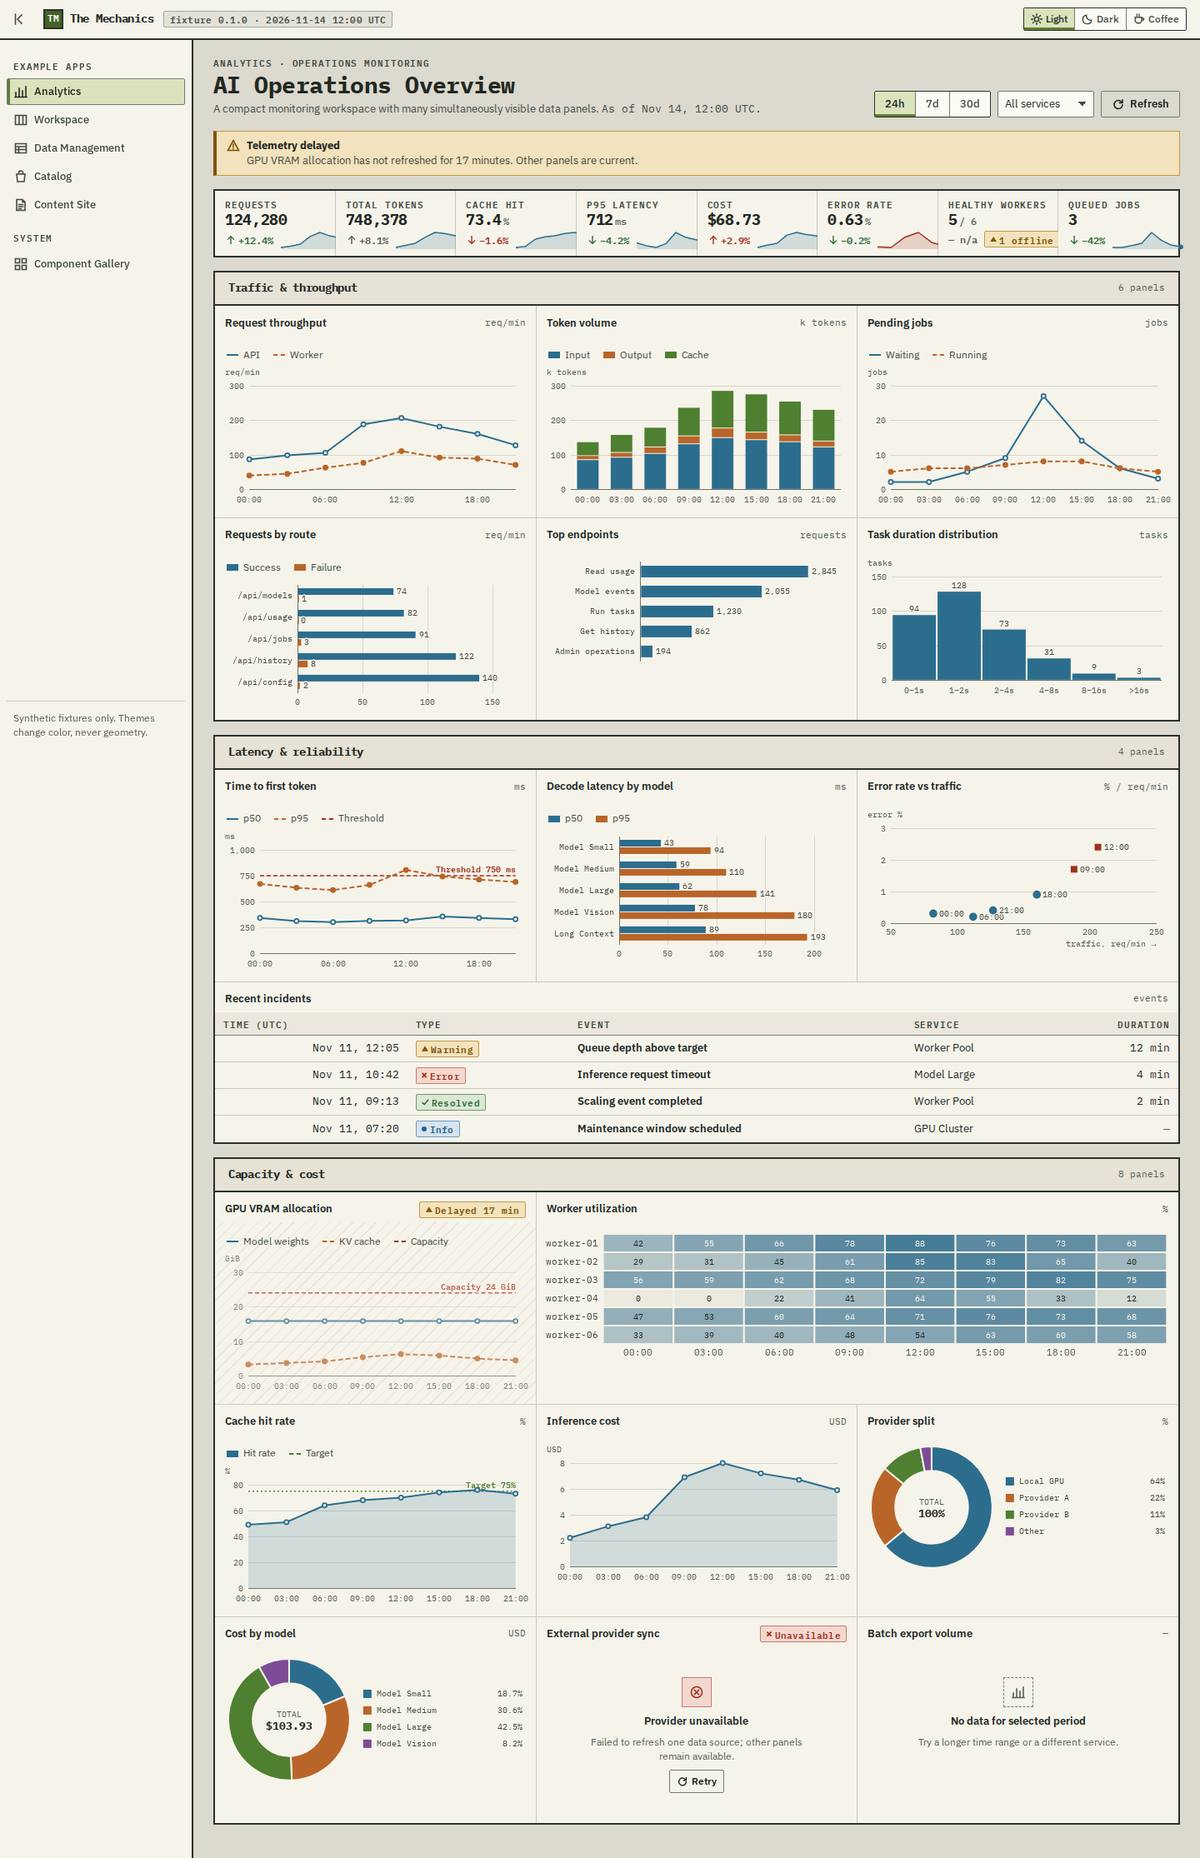
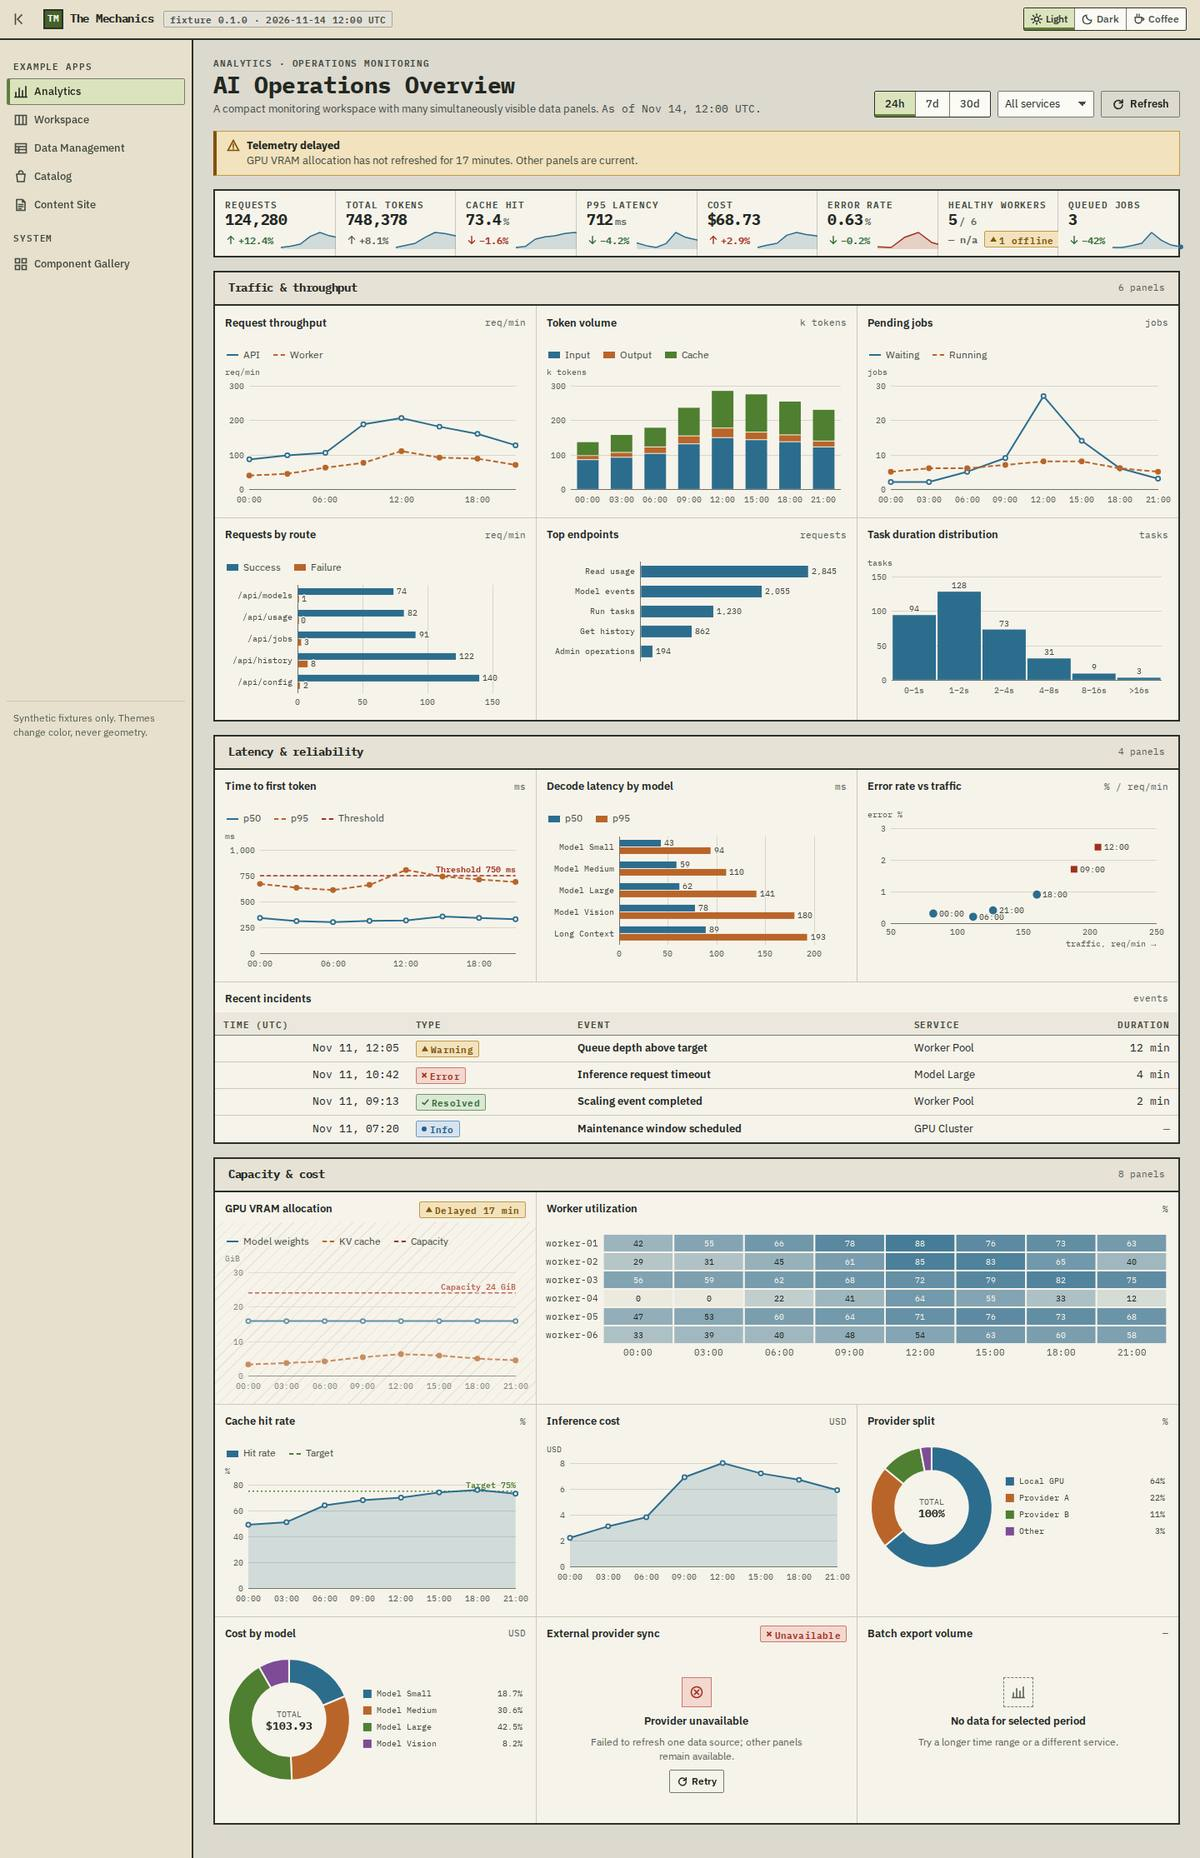
fix: give the Light theme app shell its own sand tone
Topbar and sidebar used --tm-surface, the same cream as the panels, so
the shell read as colorless white framing a gray canvas. New public
token --tm-chrome colors the shell; Light uses warm sand #e6e0cc, Dark
and Coffee keep their previous values. Contrast check adds text and
boundary pairs on chrome (all pass).

Claude-Session: https://claude.ai/code/session_01WpekTqbxR8EZvqYNeeGVyi

Changed region(s): [[0.0, 0.0, 1.0, 1.0]]

diff --git a/src/the-mechanics/themes.css b/src/the-mechanics/themes.css
@@ -6,6 +6,7 @@
  * color/surface/shadow roles; they never change geometry (see tokens.css).
  *
  * Surface ladder (Level 1 → 3):
+ *   chrome   application shell (topbar, sidebar)
  *   canvas   page background behind regions
  *   surface  Level 1 region and Level 2 panel body
  *   head-1   Level 1 region header band (strongest tint)
@@ -20,6 +21,7 @@
 
     /* Light / Paper-Stone — stony canvas, cream paper, green-black ink */
     --tm-canvas: #dcd9cf;
+    --tm-chrome: #e6e0cc;       /* app shell (topbar, sidebar): warm sand, distinct from canvas and paper */
     --tm-surface: #f6f3eb;
     --tm-surface-alt: #efebe1;
     --tm-head-1: #e6e2d5;
@@ -102,6 +104,7 @@
 
     /* Dark / Graphite — lifted graphite, never near-black */
     --tm-canvas: #26292c;
+    --tm-chrome: #33373b;
     --tm-surface: #33373b;
     --tm-surface-alt: #383c41;
     --tm-head-1: #3d4247;
@@ -184,6 +187,7 @@
 
     /* Coffee / Espresso-Mocha — warm mid-dark, cream ink, muted copper */
     --tm-canvas: #33261e;
+    --tm-chrome: #433228;
     --tm-surface: #433228;
     --tm-surface-alt: #48372c;
     --tm-head-1: #503c2f;

diff --git a/src/the-mechanics/components.css b/src/the-mechanics/components.css
@@ -121,7 +121,7 @@
     gap: var(--tm-space-3);
     min-width: 0;
     padding: 0 var(--tm-space-4) 0 var(--tm-space-2);
-    background: var(--tm-surface);
+    background: var(--tm-chrome);
     border-bottom: var(--tm-bw-1) solid var(--tm-line-1);
   }
   .tm-brand {
@@ -151,7 +151,7 @@
   .tm-sidebar {
     grid-area: side;
     min-width: 0;
-    background: var(--tm-surface);
+    background: var(--tm-chrome);
     border-right: var(--tm-bw-1) solid var(--tm-line-1);
   }
   .tm-sidebar__inner {

diff --git a/docs/verification/contrast.md b/docs/verification/contrast.md
@@ -8,6 +8,10 @@ Generated by `pnpm check:contrast` from `src/the-mechanics/themes.css`. WCAG 2.x
 |---|---|---:|---:|---|---|
 | `text` #22271f | `surface` #f6f3eb | 13.74 | 4.5 | pass | body text on panel |
 | `text` #22271f | `canvas` #dcd9cf | 10.79 | 4.5 | pass | body text on canvas |
+| `text` #22271f | `chrome` #e6e0cc | 11.54 | 4.5 | pass | text in topbar/sidebar |
+| `text-2` #434a41 | `chrome` #e6e0cc | 6.93 | 4.5 | pass | nav items |
+| `text-3` #575e55 | `chrome` #e6e0cc | 5.07 | 4.5 | pass | sidebar meta text |
+| `line-1` #2b312a | `chrome` #e6e0cc | 10.09 | 3 | pass | shell boundary |
 | `text-2` #434a41 | `surface` #f6f3eb | 8.25 | 4.5 | pass | secondary text on panel |
 | `text-2` #434a41 | `head-1` #e6e2d5 | 7.06 | 4.5 | pass | region header labels |
 | `text-3` #575e55 | `surface` #f6f3eb | 6.04 | 4.5 | pass | muted/meta text on panel |
@@ -63,6 +67,10 @@ Informational:
 |---|---|---:|---:|---|---|
 | `text` #e9ebe6 | `surface` #33373b | 9.99 | 4.5 | pass | body text on panel |
 | `text` #e9ebe6 | `canvas` #26292c | 12.18 | 4.5 | pass | body text on canvas |
+| `text` #e9ebe6 | `chrome` #33373b | 9.99 | 4.5 | pass | text in topbar/sidebar |
+| `text-2` #c9cdc6 | `chrome` #33373b | 7.44 | 4.5 | pass | nav items |
+| `text-3` #aeb3ab | `chrome` #33373b | 5.62 | 4.5 | pass | sidebar meta text |
+| `line-1` #a9aea6 | `chrome` #33373b | 5.31 | 3 | pass | shell boundary |
 | `text-2` #c9cdc6 | `surface` #33373b | 7.44 | 4.5 | pass | secondary text on panel |
 | `text-2` #c9cdc6 | `head-1` #3d4247 | 6.30 | 4.5 | pass | region header labels |
 | `text-3` #aeb3ab | `surface` #33373b | 5.62 | 4.5 | pass | muted/meta text on panel |
@@ -118,6 +126,10 @@ Informational:
 |---|---|---:|---:|---|---|
 | `text` #f3e8d8 | `surface` #433228 | 10.05 | 4.5 | pass | body text on panel |
 | `text` #f3e8d8 | `canvas` #33261e | 12.07 | 4.5 | pass | body text on canvas |
+| `text` #f3e8d8 | `chrome` #433228 | 10.05 | 4.5 | pass | text in topbar/sidebar |
+| `text-2` #dccab2 | `chrome` #433228 | 7.61 | 4.5 | pass | nav items |
+| `text-3` #c4ad91 | `chrome` #433228 | 5.64 | 4.5 | pass | sidebar meta text |
+| `line-1` #c9a985 | `chrome` #433228 | 5.50 | 3 | pass | shell boundary |
 | `text-2` #dccab2 | `surface` #433228 | 7.61 | 4.5 | pass | secondary text on panel |
 | `text-2` #dccab2 | `head-1` #503c2f | 6.47 | 4.5 | pass | region header labels |
 | `text-3` #c4ad91 | `surface` #433228 | 5.64 | 4.5 | pass | muted/meta text on panel |

diff --git a/docs/verification/testing-report.md b/docs/verification/testing-report.md
@@ -35,6 +35,7 @@ Round 3 (owner review):
 18. Product card footer mixed three element types and heights → stock moved into the body as a bare text badge; footer is a fixed-height price | flush-button strip.
 19. Inconsistent hover (buttons filled, chips/pagination/cards changed border; cards are not clickable) → single rule: clickable controls get a fill tint, borders never change on hover, non-clickable containers do not react.
 20. Level-2 borders too faint (2.15:1 Coffee, 2.19:1 Dark, 2.51:1 Light on canvas) → raised to ≥3:1 on surface and canvas in all themes; now enforced by `check:contrast` (41 pairs per theme).
+21. Light theme shell (topbar, sidebar) used the same cream as the panels and read as colorless white → new `--tm-chrome` token; Light uses warm sand `#e6e0cc` (Dark/Coffee unchanged). Contrast check covers text on chrome (45 pairs per theme).
 
 ### Interaction / keyboard checks — `pnpm smoke` (15/15 pass, [`smoke-results.json`](smoke-results.json))
 Desktop 1440×900, Chromium:
